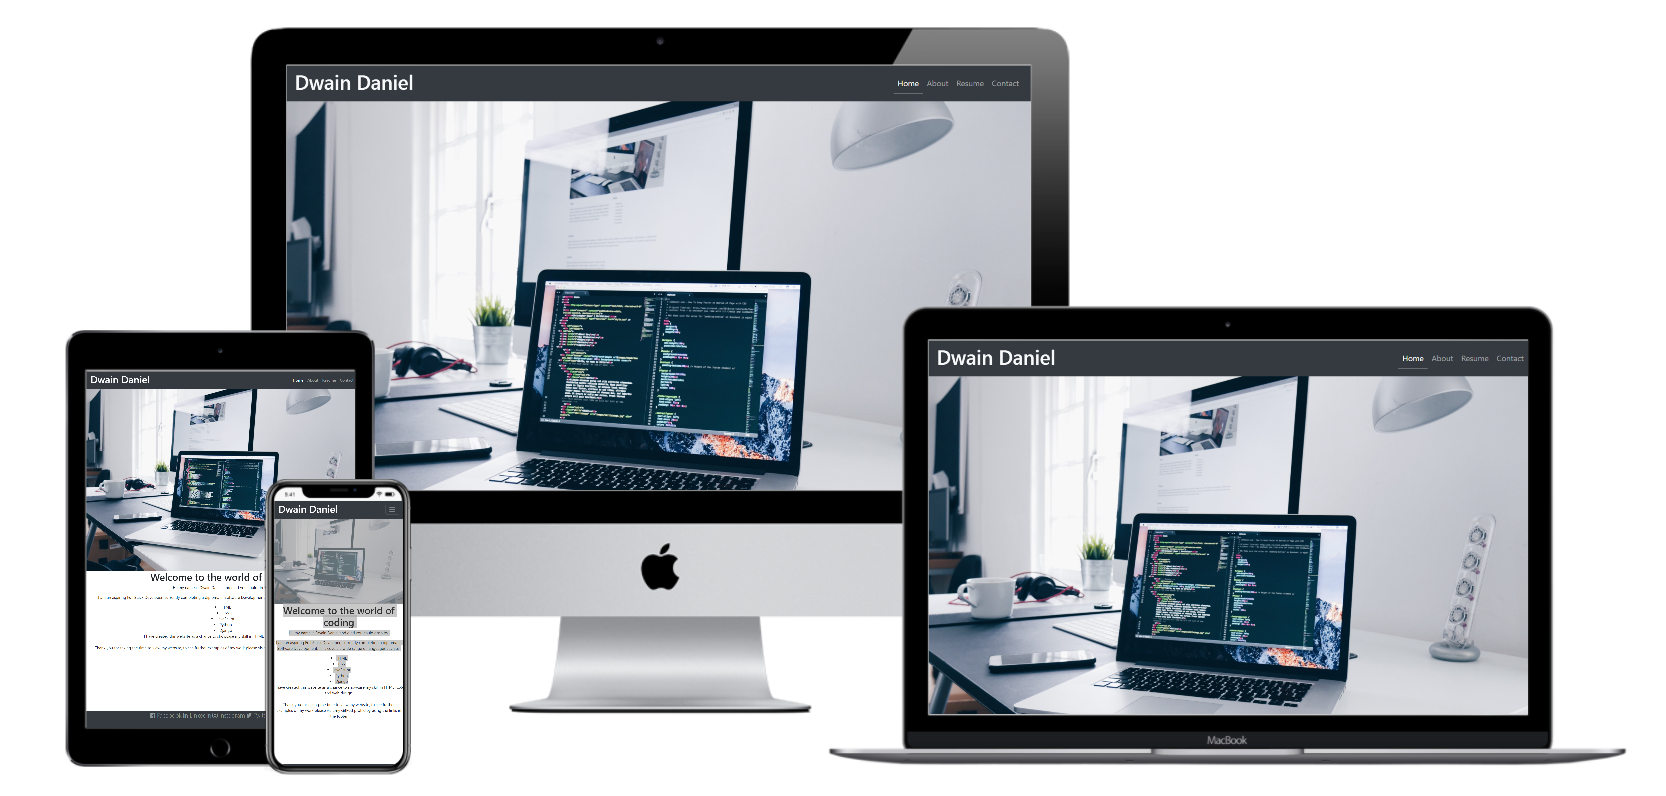
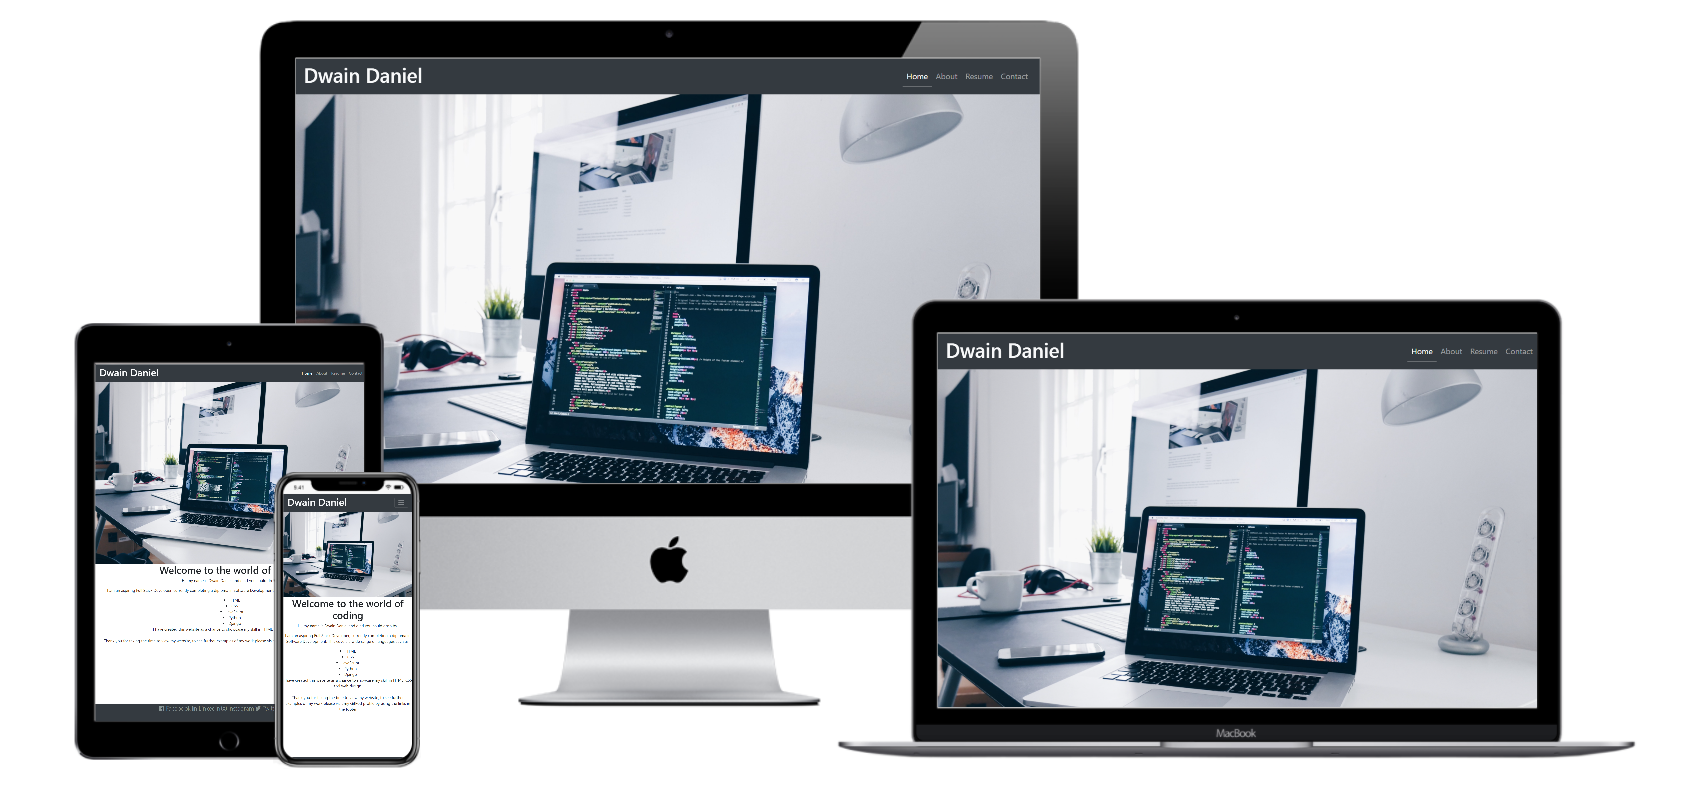
Fixed issue with my list items in index.html

Changed region(s): [[0.0312, 0.0, 0.9676, 0.9722], [0.3121, 0.881, 0.4994, 0.9114]]

diff --git a/index.html b/index.html
@@ -50,19 +50,19 @@
         <div class="section-heading">
         <h1>Welcome to the world of coding</h1>
         <p>Hi, my name is Dwain Daniel and glad you could drop by. </p>
-        <p>I am an aspiring Full Stack Developer, currently completing a diploma in Software Development. This covers a wide range of languages such as:
-            <li>HTML</li>
-            <li>CSS</li>
-            <li>JavaScript</li>
-            <li>Python</li>
-            <li>Django</li>
-
-            I have created this website as a chance to showcase my skill in HTML, CSS and web design. <br>
+        <p>I am an aspiring Full Stack Developer, currently completing a diploma in Software Development. 
+            This covers a wide range of languages such as:</p>
+            <ul>
+                <li>HTML</li>
+                <li>CSS</li>
+                <li>JavaScript</li>
+                <li>Python</li>
+                <li>Django</li>
+            </ul>
+            <p>I have created this website as a chance to showcase my skill in HTML, CSS and web design.</p> <br>
             <br> 
-            Thank you for taking the time to view my website, to see further examples of my work please visit my 
+           <p>Thank you for taking the time to view my website, to see further examples of my work please visit my 
             GitPod profile by using the links in the footer</p>
-            <p></p>
-         
     </div>
     </section>
     
